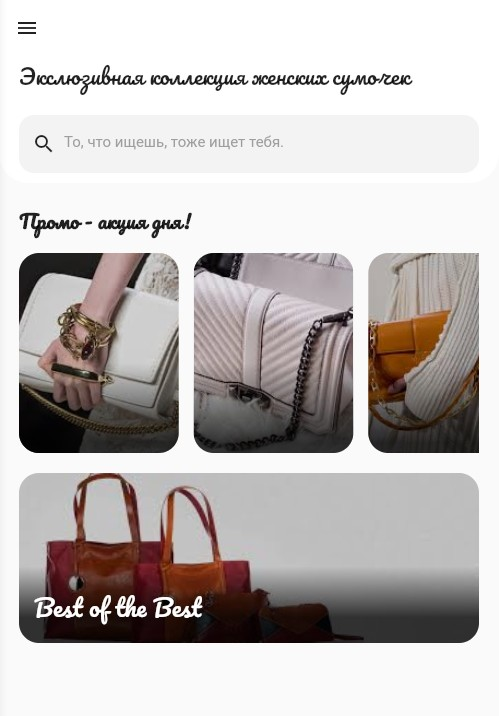
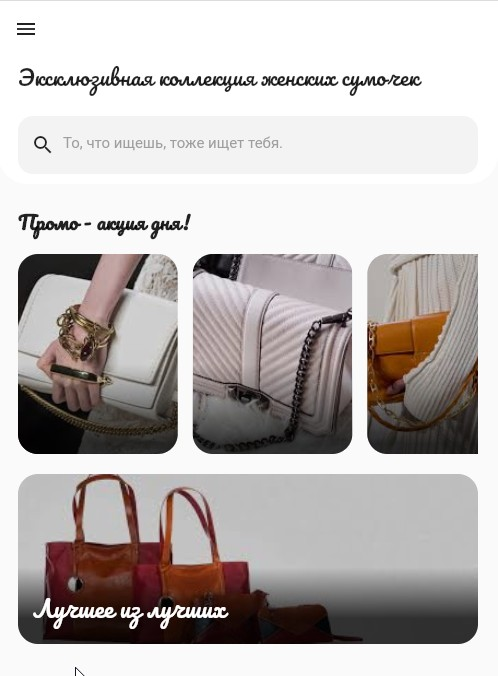
add en/ru localization and more

diff --git a/lib/ui/main_screen.dart b/lib/ui/main_screen.dart
@@ -12,12 +12,11 @@ class _MainScreenState extends State<MainScreen> {
   Widget build(BuildContext context) {
     return Scaffold(
       appBar: AppBar(
-        backgroundColor: Colors.white,
+        iconTheme: Theme.of(context).iconTheme,
         elevation: 0,
         leading: IconButton(
           icon: Icon(
             Icons.menu,
-            color: Colors.black87,
           ),
           onPressed: () {},
         ),
@@ -41,11 +40,7 @@ class _MainScreenState extends State<MainScreen> {
                     Text(
                       //'Экслюзивная коллекция женских сумочек',
                       S.of(context).titleCollection,
-                      style: TextStyle(
-                        fontFamily: 'Pacifico',
-                        color: Colors.black87,
-                        fontSize: 22,
-                      ),
+                      style: Theme.of(context).textTheme.bodyText1,
                     ),
                     SizedBox(height: 20),
                     Container(
@@ -82,10 +77,7 @@ class _MainScreenState extends State<MainScreen> {
                   children: [
                     Text(
                       S.of(context).promo, //'Промо - акция дня!',
-                      style: TextStyle(
-                          fontSize: 20,
-                          fontWeight: FontWeight.bold,
-                          fontFamily: 'Pacifico'),
+                      style: Theme.of(context).textTheme.bodyText2,
                     ),
                     SizedBox(
                       height: 15,
@@ -133,11 +125,8 @@ class _MainScreenState extends State<MainScreen> {
                           child: Padding(
                             padding: const EdgeInsets.all(15.0),
                             child: Text(
-                              'Best of the Best',
-                              style: TextStyle(
-                                  color: Colors.white,
-                                  fontSize: 24,
-                                  fontFamily: 'Pacifico'),
+                              S.of(context).theBest,
+                              style: Theme.of(context).textTheme.headline5,
                             ),
                           ),
                         ),

diff --git a/lib/ui/theme/custom_theme.dart b/lib/ui/theme/custom_theme.dart
@@ -1,0 +1,26 @@
+import 'package:flutter/material.dart';
+
+class CustomTheme {
+  static ThemeData get lightTheme => ThemeData(
+        appBarTheme: AppBarTheme(
+          backgroundColor: Colors.white,
+        ),
+        iconTheme: IconThemeData(
+          color: Colors.black87,
+        ),
+        textTheme: TextTheme(
+          bodyText1: TextStyle(
+            fontFamily: 'Pacifico',
+            color: Colors.black87,
+            fontSize: 22,
+          ),
+          bodyText2: TextStyle(
+              fontSize: 20,
+              fontWeight: FontWeight.bold,
+              fontFamily: 'Pacifico'),
+          headline5: TextStyle(
+              color: Colors.white, fontSize: 24, fontFamily: 'Pacifico'),
+        ),
+        fontFamily: 'Roboto',
+      );
+}

diff --git a/lib/internal/application.dart b/lib/internal/application.dart
@@ -1,5 +1,6 @@
 import 'package:bags_shop/generated/l10n.dart';
 import 'package:bags_shop/ui/main_screen.dart';
+import 'package:bags_shop/ui/theme/custom_theme.dart';
 import 'package:flutter/material.dart';
 import 'package:flutter_localizations/flutter_localizations.dart';
 
@@ -16,7 +17,7 @@ class Application extends StatelessWidget {
       supportedLocales: S.delegate.supportedLocales,
       debugShowCheckedModeBanner: false,
       title: 'Bugs shop',
-      theme: ThemeData(fontFamily: 'Roboto'),
+      theme: CustomTheme.lightTheme,
       home: MainScreen(),
     );
   }

diff --git a/README.md b/README.md
@@ -1,9 +1,7 @@
-# bags_shop
-
-A new Flutter App. A promo bags shop.
-
+# A promo bags shop written on Flutter
+### clean architecture, localization, fonts
 @ru 
-Промо магазин сумочек на Flutter.
+Промо - страница магазина сумочек на Flutter.
 ## ScreenShot
 
 <img src="assets/screenshot/main_menu.jpg" height="500em" />
